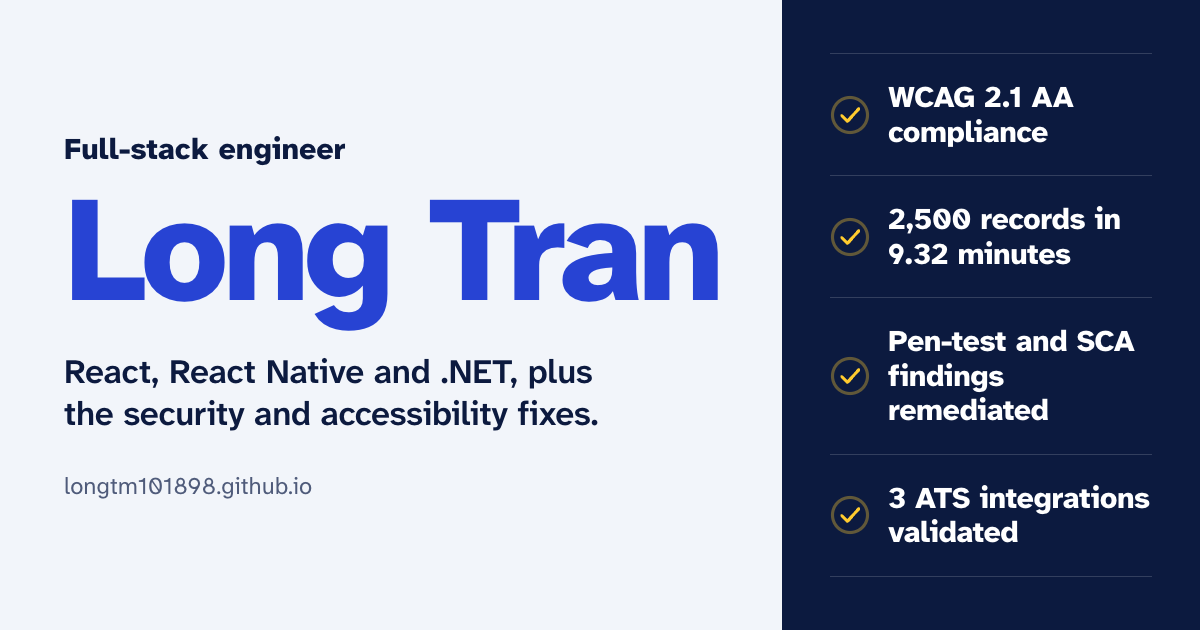
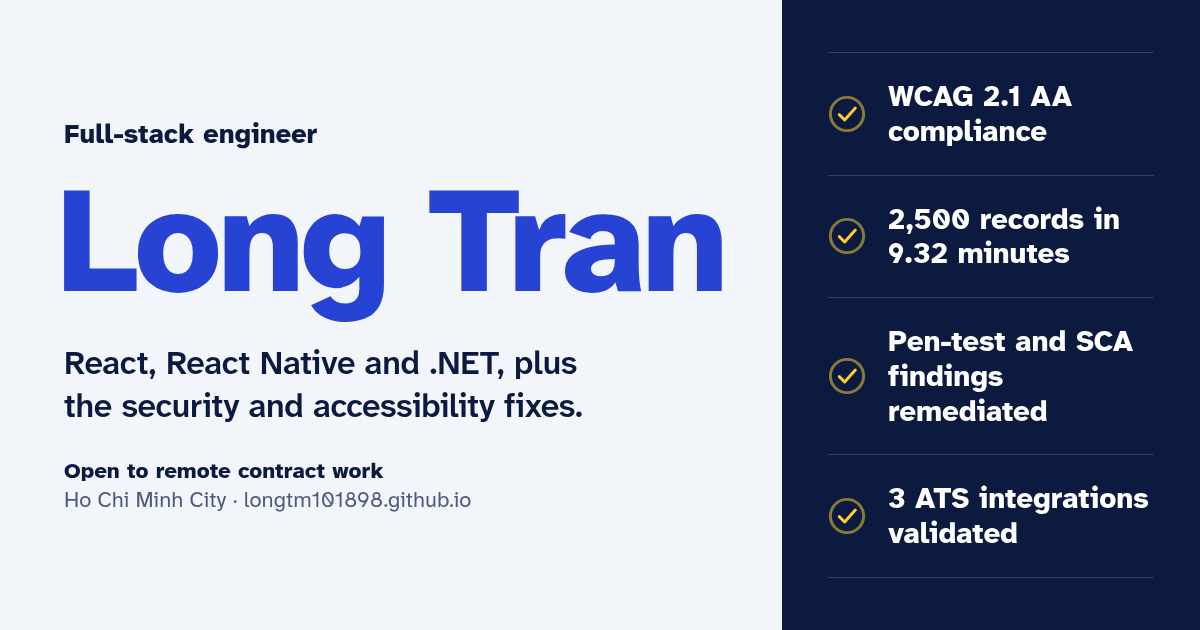
Add education, Olympe link, compact mobile nav, 404, robots, sitemap and new share image

diff --git a/index.html b/index.html
@@ -26,7 +26,7 @@
     <meta property="og:image:height" content="630" />
     <meta
       property="og:image:alt"
-      content="Long Tran, full-stack engineer. React, React Native and .NET, plus the security and accessibility fixes."
+      content="Long Tran, full-stack engineer. React, React Native and .NET, plus the security and accessibility fixes. Based in Ho Chi Minh City, open to remote contract work."
     />
     <meta name="twitter:card" content="summary_large_image" />
     <meta name="color-scheme" content="light dark" />
@@ -986,8 +986,10 @@
         margin-top: clamp(2.5rem, 5vw, 4rem);
       }
       .side h3 {
-        margin-bottom: 0.25rem;
         scroll-margin-block-start: 1rem;
+      }
+      .side h3:has(+ .side-intro) {
+        margin-bottom: 0.25rem;
       }
       .side-intro {
         margin: 0 0 1rem;
@@ -1133,6 +1135,24 @@
       @media (max-width: 560px) {
         .topbar ul {
           justify-content: flex-start;
+          gap: 0;
+          margin: 0 -0.375rem;
+        }
+        .topbar a {
+          justify-content: center;
+          min-width: 2.75rem; /* 44px target */
+          padding: 0 0.375rem;
+          font-size: 0.875rem;
+          white-space: nowrap;
+        }
+        /* Same clipping as .sr-only, so the link keeps its full name */
+        .nav-extra {
+          position: absolute;
+          width: 1px;
+          height: 1px;
+          overflow: hidden;
+          clip-path: inset(50%);
+          white-space: nowrap;
         }
         .facts {
           grid-template-columns: repeat(2, minmax(0, 1fr));
@@ -1222,7 +1242,15 @@
               <a href="https://www.linkedin.com/in/longtran98/">LinkedIn</a>
             </li>
             <li><a href="https://github.com/longtm101898">GitHub</a></li>
-            <li><a href="Long-Tran-CV.pdf" download>Download CV (PDF)</a></li>
+            <li>
+              <a href="Long-Tran-CV.pdf" download
+                ><span class="nav-extra">Download </span>CV<span
+                  class="nav-extra"
+                >
+                  (PDF)</span
+                ></a
+              >
+            </li>
           </ul>
         </nav>
         <button
@@ -1691,6 +1719,9 @@
               <div>
                 Developed reusable low-code components and enhanced platform
                 functionality.
+                <span class="side-links">
+                  <a href="https://www.olympe.io/">olympe.io</a>
+                </span>
               </div>
               <span><span class="sr-only">Stack: </span>React, Node.js</span>
             </li>
@@ -1782,6 +1813,20 @@
                 ><span class="sr-only">Stack: </span>HTML, CSS, vanilla
                 JavaScript</span
               >
+            </li>
+          </ul>
+        </div>
+
+        <div class="more side">
+          <h3 id="education">Education</h3>
+          <ul role="list">
+            <li>
+              <div><strong>Bachelor in IT</strong><span>Graduated 2020</span></div>
+              <div>
+                FPT Education, in alliance with the University of Greenwich.
+                First Class Honours with a GPA of 4/4, and named best student
+                for three semesters.
+              </div>
             </li>
           </ul>
         </div>

diff --git a/404.html b/404.html
@@ -1,0 +1,100 @@
+<!doctype html>
+<html lang="en">
+  <head>
+    <meta charset="utf-8" />
+    <meta name="viewport" content="width=device-width, initial-scale=1" />
+    <title>Page not found | Long Tran</title>
+    <meta name="robots" content="noindex" />
+    <meta name="color-scheme" content="light dark" />
+    <link rel="icon" href="/favicon.ico" sizes="32x32" />
+    <link rel="icon" href="/favicon.svg" type="image/svg+xml" />
+    <style>
+      @font-face {
+        font-family: 'Atkinson Hyperlegible Next';
+        font-style: normal;
+        font-weight: 400 800;
+        font-display: swap;
+        src: url('/fonts/atkinson-hyperlegible-next-latin.woff2') format('woff2');
+      }
+      :root {
+        color-scheme: light dark;
+        --paper: #f2f5fa;
+        --ink: #0c1a3f;
+        --navy: #0c1a3f;
+        --on-ink: #fff;
+        --cobalt: #2743d3;
+        --signal: #ffcb2e;
+        --mute: #4f5b7a;
+      }
+      @media (prefers-color-scheme: dark) {
+        :root {
+          --paper: #070c1f;
+          --ink: #eef1fa;
+          --on-ink: #070c1f;
+          --cobalt: #8fa3ff;
+          --mute: #a6b1cf;
+        }
+      }
+      body {
+        display: grid;
+        place-content: center;
+        min-height: 100vh;
+        min-height: 100dvh;
+        margin: 0;
+        padding: 1.5rem;
+        font-family:
+          'Atkinson Hyperlegible Next', 'Atkinson Hyperlegible', system-ui,
+          sans-serif;
+        line-height: 1.5;
+        color: var(--ink);
+        background: var(--paper);
+      }
+      main {
+        max-width: 34rem;
+      }
+      p {
+        margin: 0;
+      }
+      .code {
+        font-weight: 800;
+        color: var(--mute);
+      }
+      h1 {
+        margin: 0.25rem 0 0.75rem;
+        font-size: clamp(2.5rem, 9vw, 4.5rem);
+        font-weight: 800;
+        line-height: 1;
+        letter-spacing: -0.035em;
+        color: var(--cobalt);
+      }
+      a {
+        display: inline-flex;
+        align-items: center;
+        min-height: 2.75rem; /* 44px target */
+        margin-top: 1.5rem;
+        padding: 0 1.25rem;
+        font-weight: 600;
+        text-decoration: none;
+        color: var(--on-ink);
+        background: var(--ink);
+        border-radius: 0.375rem;
+      }
+      a:focus-visible {
+        outline: 3px solid var(--signal);
+        outline-offset: 0;
+        box-shadow: 0 0 0 6px var(--navy);
+      }
+    </style>
+  </head>
+  <body>
+    <main>
+      <p class="code">Error 404</p>
+      <h1>Page not found</h1>
+      <p>
+        This address does not exist on Long Tran's portfolio. The whole site is
+        one page, so everything is on the home page.
+      </p>
+      <a href="/">Go to the home page</a>
+    </main>
+  </body>
+</html>

diff --git a/README.md b/README.md
@@ -9,6 +9,8 @@ Personal portfolio hosted at [https://longtm101898.github.io/](https://longtm101
 - `fonts/`: the self-hosted Atkinson Hyperlegible Next font (latin subset) and its OFL licence.
 - `favicon.svg`, `favicon.ico`, `apple-touch-icon.png`: site icons.
 - `og-image.png`: the 1200x630 preview image used when the link is shared.
+- `404.html`: the page GitHub Pages shows for any address that does not exist.
+- `robots.txt`, `sitemap.xml`: tell search engines the site can be indexed and list its one page.
 - `.nojekyll`: serves the files directly without Jekyll processing.
 
 ## Local preview
@@ -23,7 +25,7 @@ In repository **Settings → Pages**, the source is **Deploy from a branch**, wi
 To update the site, edit the files, commit, and push to `main`:
 
 ```sh
-git add index.html Long-Tran-CV.pdf fonts favicon.svg favicon.ico apple-touch-icon.png og-image.png
+git add index.html 404.html robots.txt sitemap.xml Long-Tran-CV.pdf fonts favicon.svg favicon.ico apple-touch-icon.png og-image.png
 git commit -m "Update portfolio"
 git push origin main
 ```
